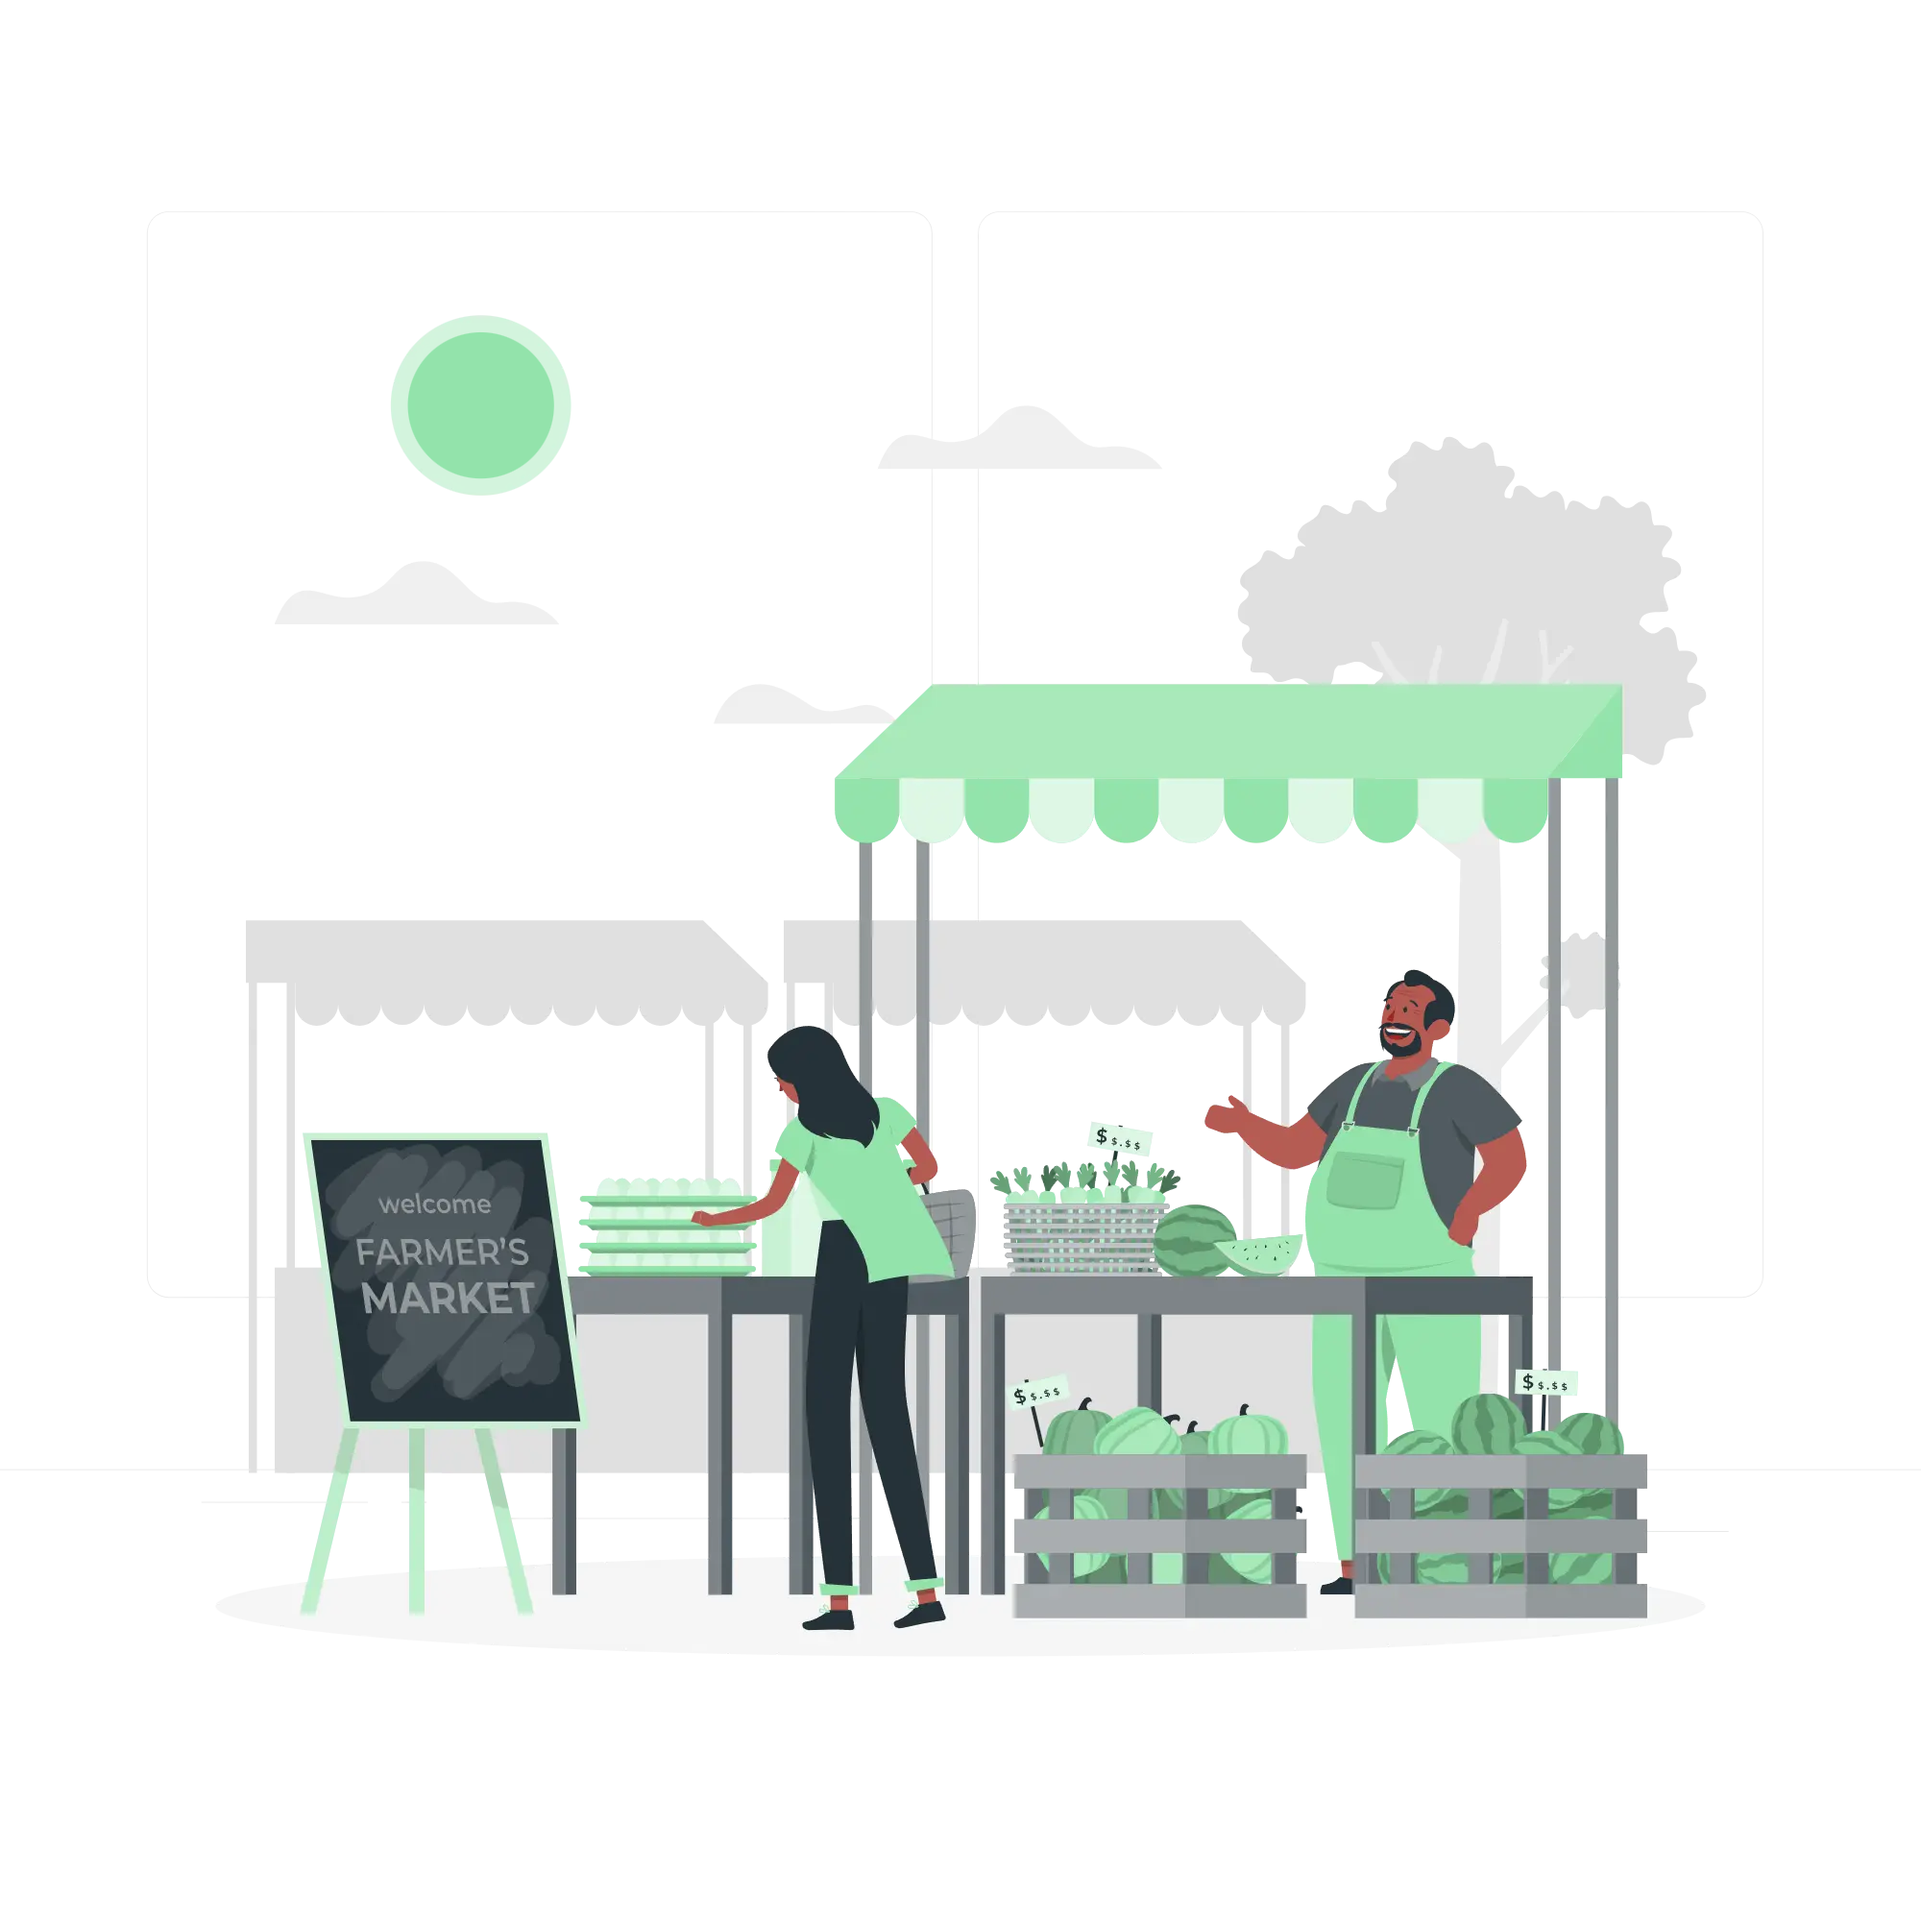
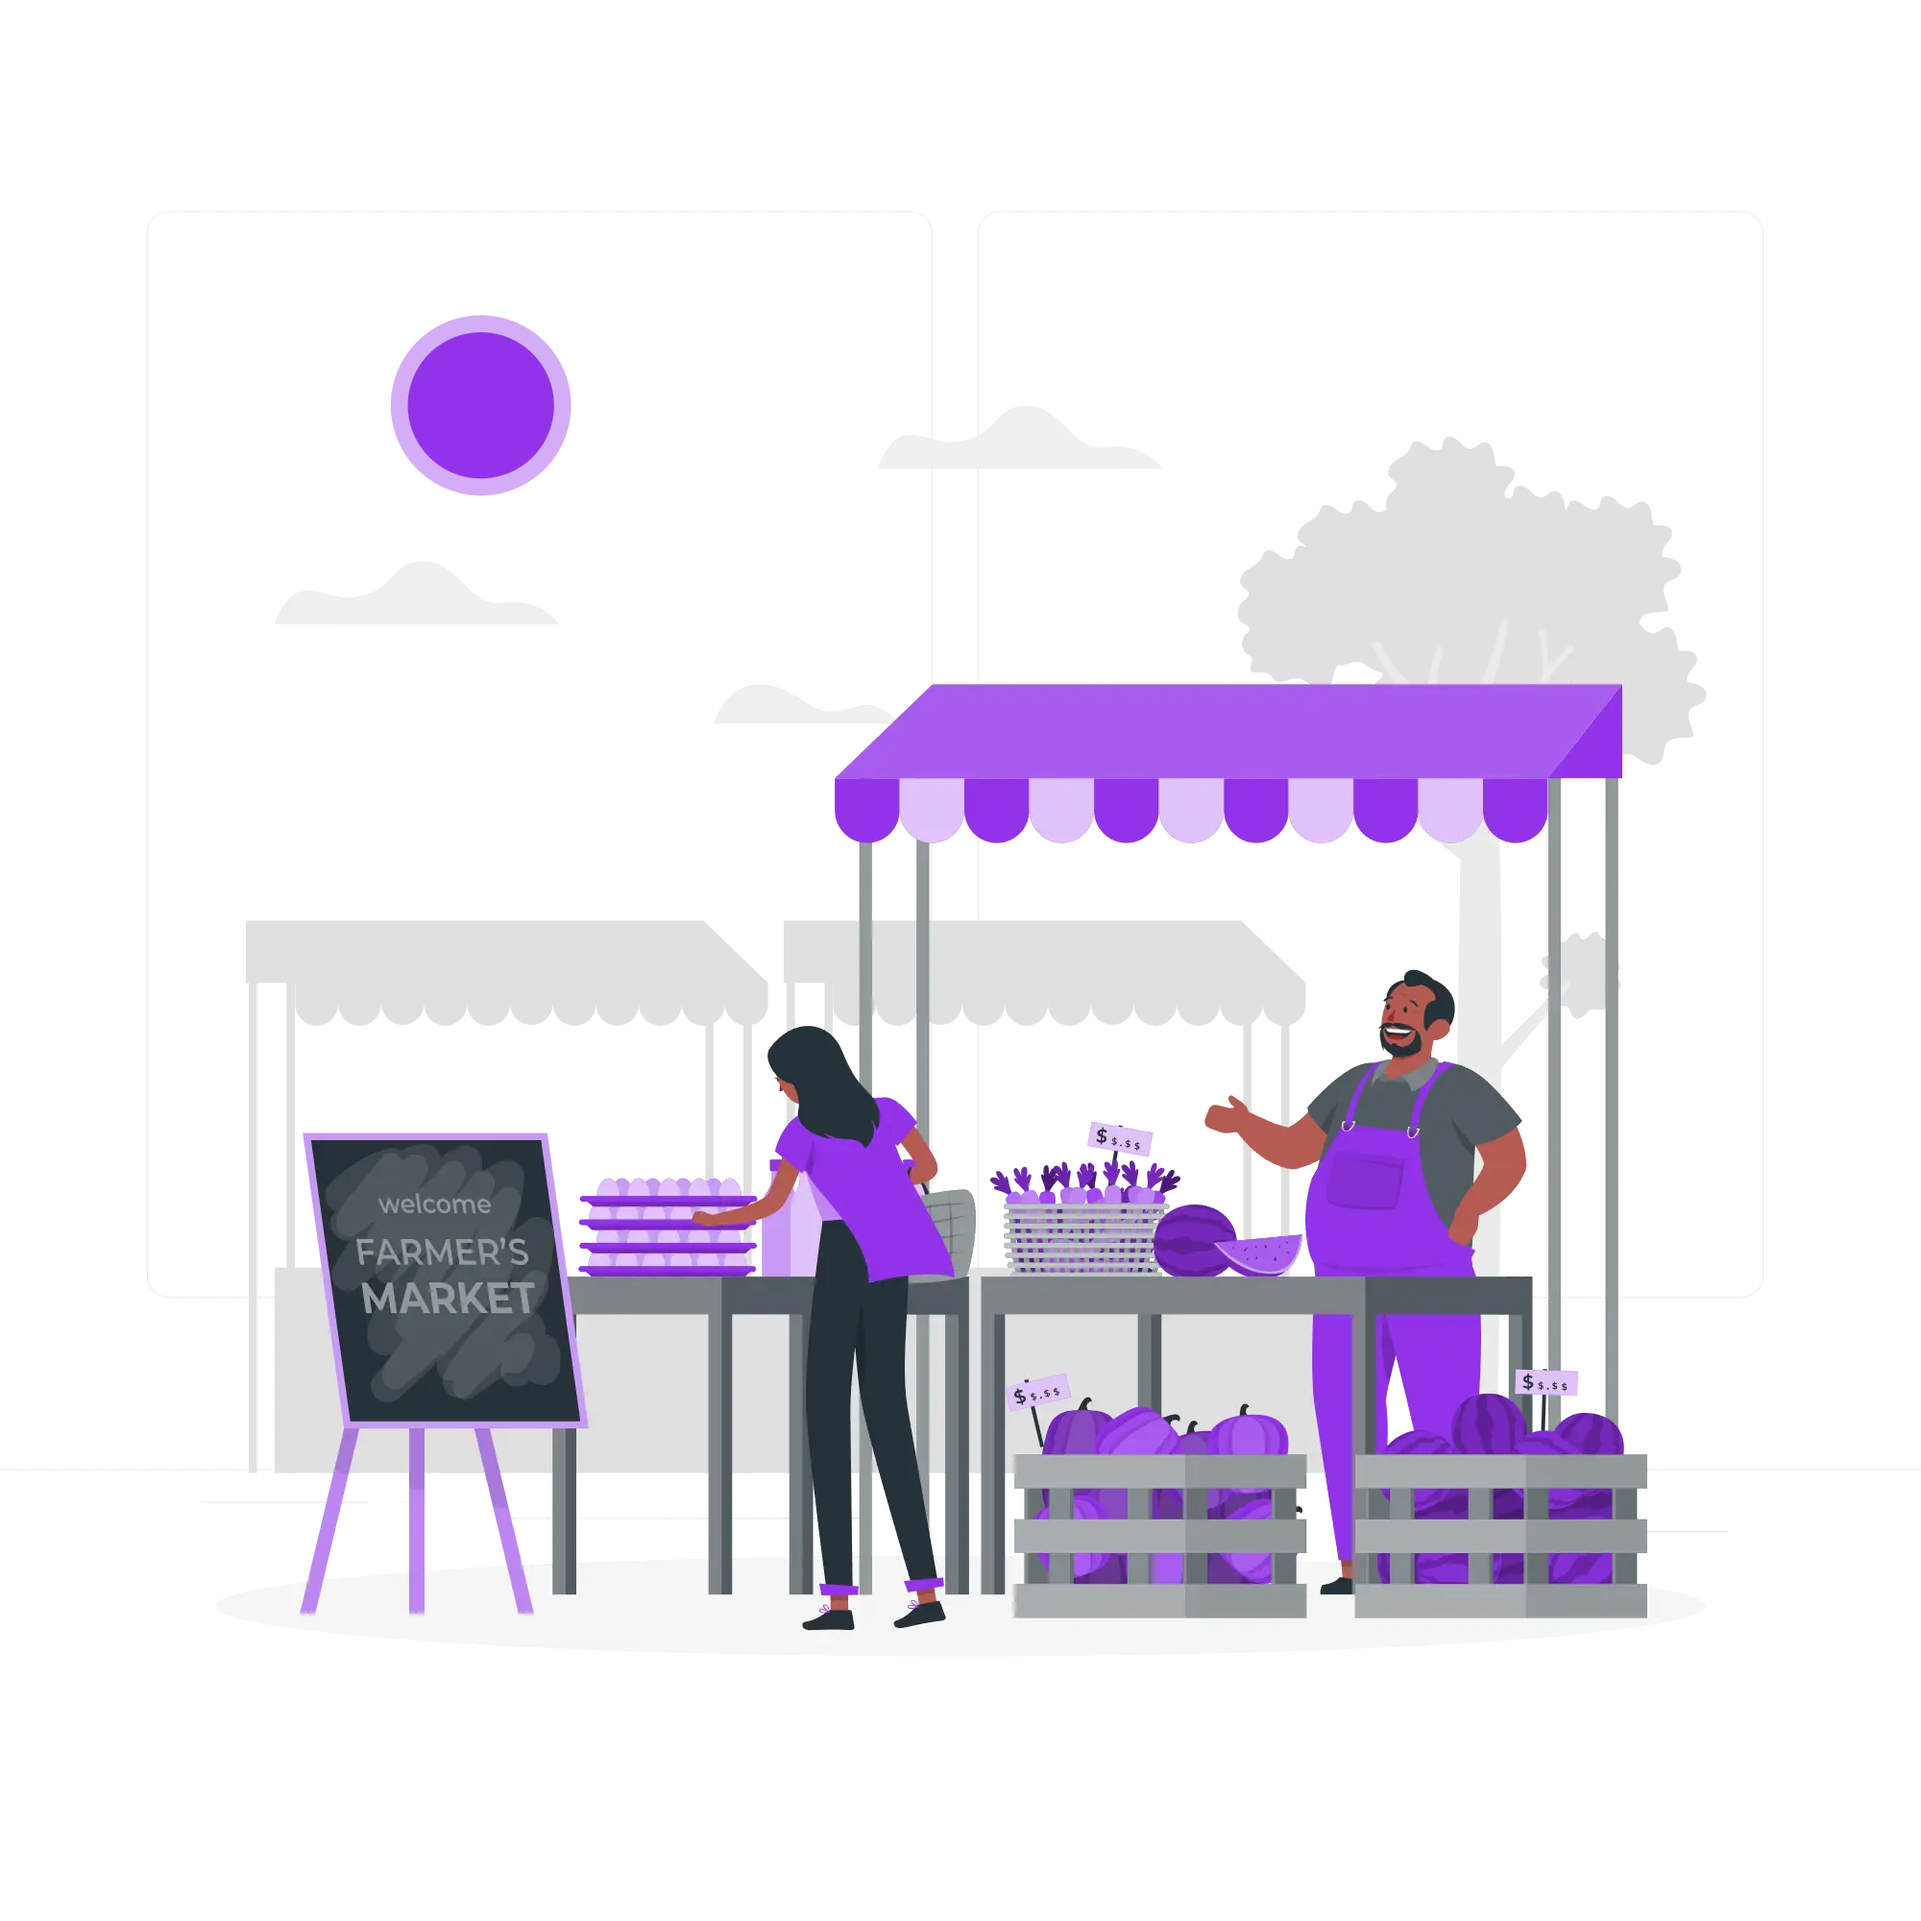
change design colors

diff --git a/components/card-product.tsx b/components/card-product.tsx
@@ -35,7 +35,7 @@ export default function CardProduct(ICardProduct: ICardProduct) {
   return (
     <Drawer open={open} onOpenChange={setOpen}>
       <DrawerTrigger className="w-[45%] sm:w-[30%] lg:w-[20%] xl:w-[15%]">
-        <div className="flex h-[250px] w-full flex-col gap-3 rounded-lg border border-emerald-200 bg-emerald-400 bg-opacity-10 p-5 text-slate-700 duration-300 sm:h-[300px] xl:hover:cursor-pointer xl:hover:bg-emerald-500 xl:hover:text-white">
+        <div className="flex h-[250px] w-full flex-col gap-3 rounded-lg border border-purple-200 bg-purple-400 bg-opacity-10 p-5 text-slate-700 duration-300 sm:h-[300px] xl:hover:cursor-pointer xl:hover:bg-purple-500 xl:hover:text-white">
           <div className="h-3/5">
             <Image
               src={ICardProduct.images[0]}
@@ -122,7 +122,7 @@ export default function CardProduct(ICardProduct: ICardProduct) {
                 <div className="hidden w-[20%] flex-col gap-5 xl:flex">
                   <div className="flex items-center gap-3">
                     <h1 className="font-bold">Beli Langsung</h1>
-                    <FaCartShopping className="text-emerald-500" />
+                    <FaCartShopping className="text-purple-500" />
                   </div>
                   <div className="flex flex-col gap-3">
                     <h1>
@@ -150,7 +150,7 @@ export default function CardProduct(ICardProduct: ICardProduct) {
             <div className="flex flex-col justify-center gap-2 min-[320px]:h-[15%] min-[390px]:h-[12%] xl:hidden">
               <div className="flex items-center gap-3 lg:text-lg">
                 <h1 className="font-bold">Beli Langsung</h1>
-                <FaCartShopping className="text-emerald-500" />
+                <FaCartShopping className="text-purple-500" />
               </div>
               <div className="flex items-center justify-between gap-5">
                 <div className="w-full">

diff --git a/app/hero.tsx b/app/hero.tsx
@@ -8,12 +8,12 @@ export default function Hero() {
   const router = useRouter();
 
   return (
-    <section className="relative flex min-h-[250px] items-start bg-[radial-gradient(ellipse_at_right,_var(--tw-gradient-stops))] from-cyan-200 via-cyan-100 to-cyan-50 pb-10 sm:items-center sm:pb-0">
+    <section className="relative flex min-h-[250px] items-start bg-[radial-gradient(ellipse_at_right,_var(--tw-gradient-stops))] from-violet-400 via-violet-200 to-violet-50 pb-10 sm:items-center sm:pb-0">
       <div className="container flex flex-col-reverse items-center sm:flex-row">
         <div className="flex w-full flex-col justify-center gap-5 sm:w-1/2">
           <div className="flex flex-col gap-3 text-center sm:text-left">
-            <h1 className="text-lg font-bold text-emerald-600 sm:text-start sm:text-base lg:text-xl xl:text-2xl">
-              Selamat datang di produk KWT
+            <h1 className="text-lg font-bold text-purple-600 sm:text-start sm:text-base lg:text-xl xl:text-2xl">
+              Selamat datang di produk Kelompok Wanita Tani
               <br />
               Desa Pasir Biru 🪴
             </h1>
@@ -25,7 +25,7 @@ export default function Hero() {
           <div className="flex w-full justify-center sm:justify-start">
             <Button
               onClick={() => router.push("/#products")}
-              className="flex gap-3 bg-emerald-500 text-white duration-300 hover:bg-emerald-600"
+              className="flex gap-3 bg-purple-500 text-white duration-300 hover:bg-purple-600"
             >
               <FaBagShopping />
               Belanja Sekarang

diff --git a/components/navbar/navigation.tsx b/components/navbar/navigation.tsx
@@ -40,7 +40,7 @@ export default function Navigation() {
       <div className="flex items-center gap-5 lg:hidden">
         <Popover open={open} onOpenChange={setOpen}>
           <PopoverTrigger>
-            <LuMenu className="text-xl text-emerald-500" />
+            <LuMenu className="text-xl text-purple-500" />
           </PopoverTrigger>
           <PopoverContent className="relative right-2 w-40 p-0">
             {nav.map((item) => (
@@ -49,7 +49,7 @@ export default function Navigation() {
                 onClick={() => setOpen(false)}
                 href={item.path}
                 target={item.name === "Kontak KWT" ? "_blank" : "_self"}
-                className="flex items-center gap-2 py-2 pl-4 text-emerald-500"
+                className="flex items-center gap-2 py-2 pl-4 text-purple-500"
               >
                 {item.icon}
                 {item.name}
@@ -66,7 +66,7 @@ export default function Navigation() {
             key={item.name}
             href={item.path}
             target={item.name === "Kontak KWT" ? "_blank" : "_self"}
-            className="flex items-center gap-2 rounded-full px-3 py-2 text-sm text-emerald-500 duration-300 hover:bg-emerald-100"
+            className="flex items-center gap-2 rounded-full px-3 py-2 text-sm text-purple-500 duration-300 hover:bg-purple-100"
           >
             {item.icon}
             {item.name}

diff --git a/components/footer.tsx b/components/footer.tsx
@@ -3,7 +3,7 @@ import { LuFacebook, LuInstagram, LuMail } from "react-icons/lu";
 
 export default function Footer() {
   return (
-    <footer className="mt-24 bg-emerald-500 text-white">
+    <footer className="mt-24 bg-purple-500 text-white">
       <div className="container flex min-h-[250px] text-sm sm:text-base lg:text-lg">
         <div className="flex w-1/2 flex-col justify-between py-16">
           <h3>Pasir Biru, Kec. Rancakalong, Kab. Sumedang</h3>

diff --git a/components/navbar/index.tsx b/components/navbar/index.tsx
@@ -3,7 +3,7 @@ import Navigation from "./navigation";
 
 export default function Navbar() {
   return (
-    <nav className="sticky top-0 z-50 flex h-16 justify-center border-b border-emerald-200 bg-white/70 backdrop-blur-lg">
+    <nav className="sticky top-0 z-50 flex h-16 justify-center border-b border-purple-200 bg-white/70 backdrop-blur-lg">
       <div className="container flex h-full justify-between">
         <Logo />
 
